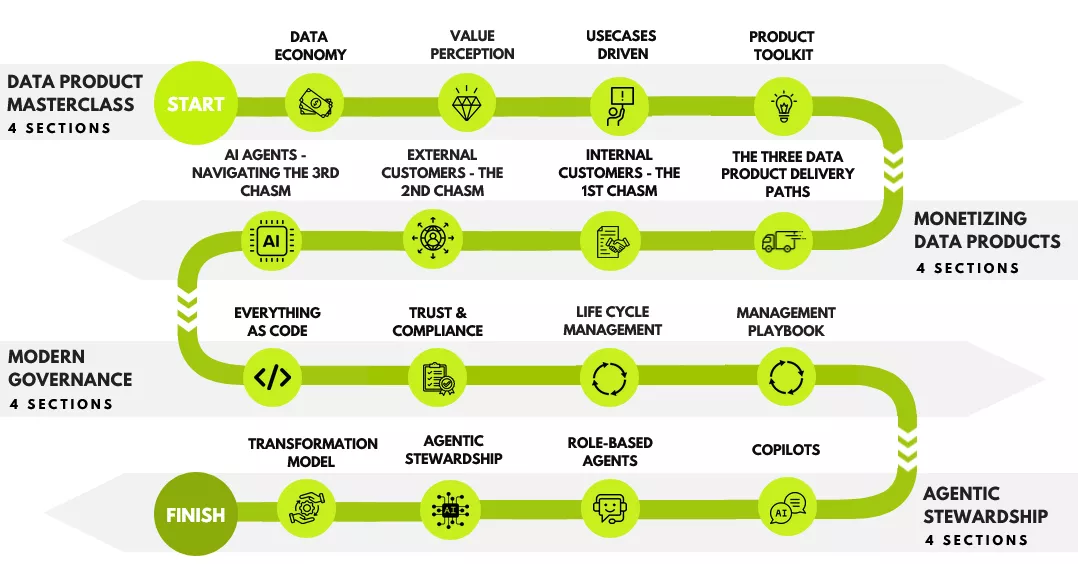
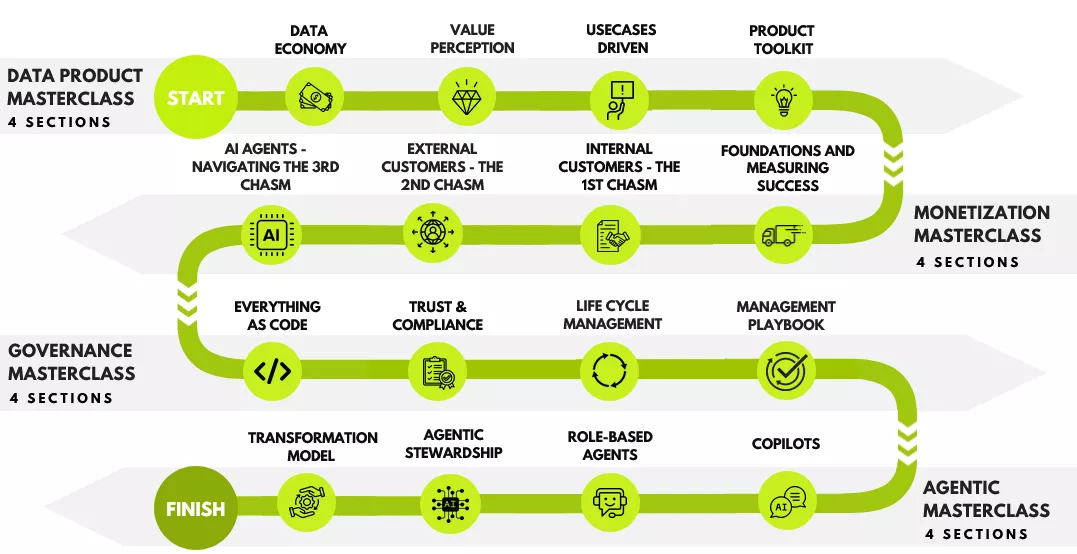
curriculum update

diff --git a/index.html b/index.html
@@ -631,7 +631,7 @@
                             </div>
                         </div>
                         <div class="introduction-box-info">
-                            <h3>Course 2/4: Monetizing Your Data Products</h3>
+                            <h3>Course 2/4: Data Product Monetization MasterClass</h3>
                             <p>Bundled with the book “AI-Powered Data Products”. Course participants receive a PDF
                                 copy of the book.</p>
     
